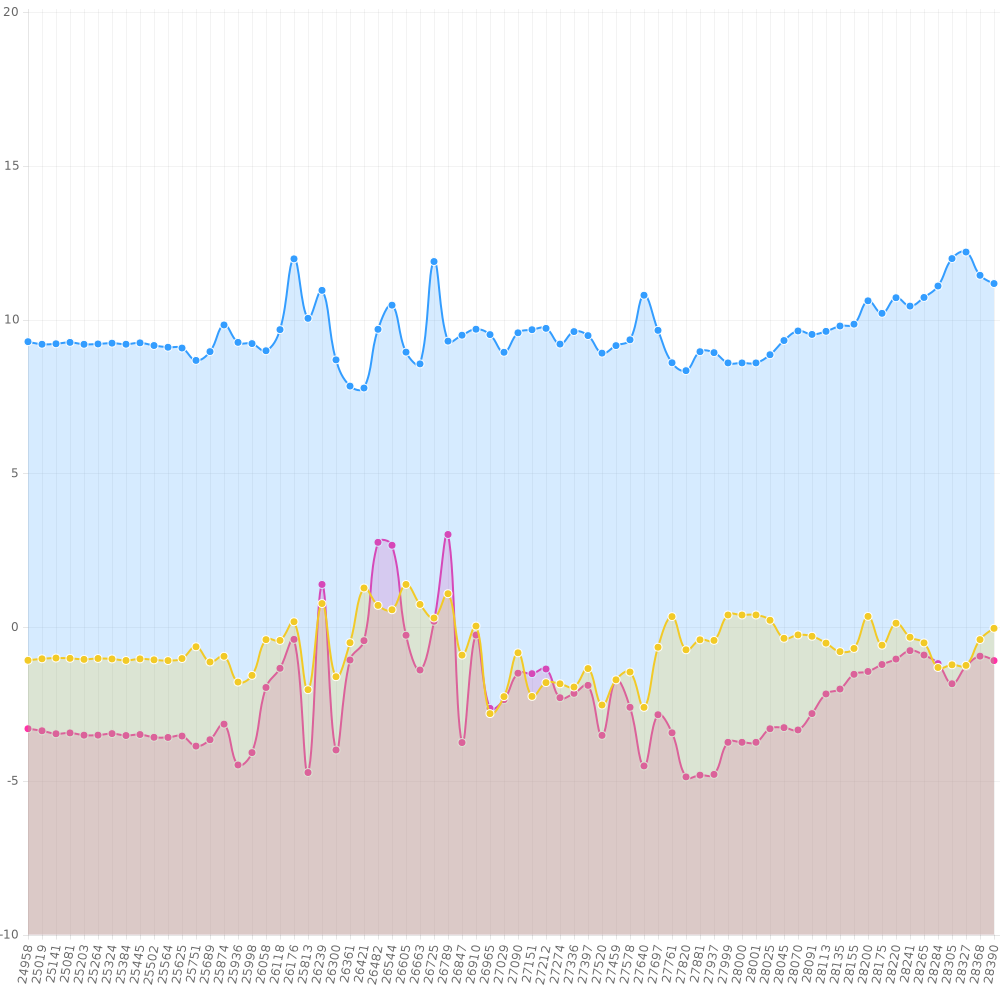
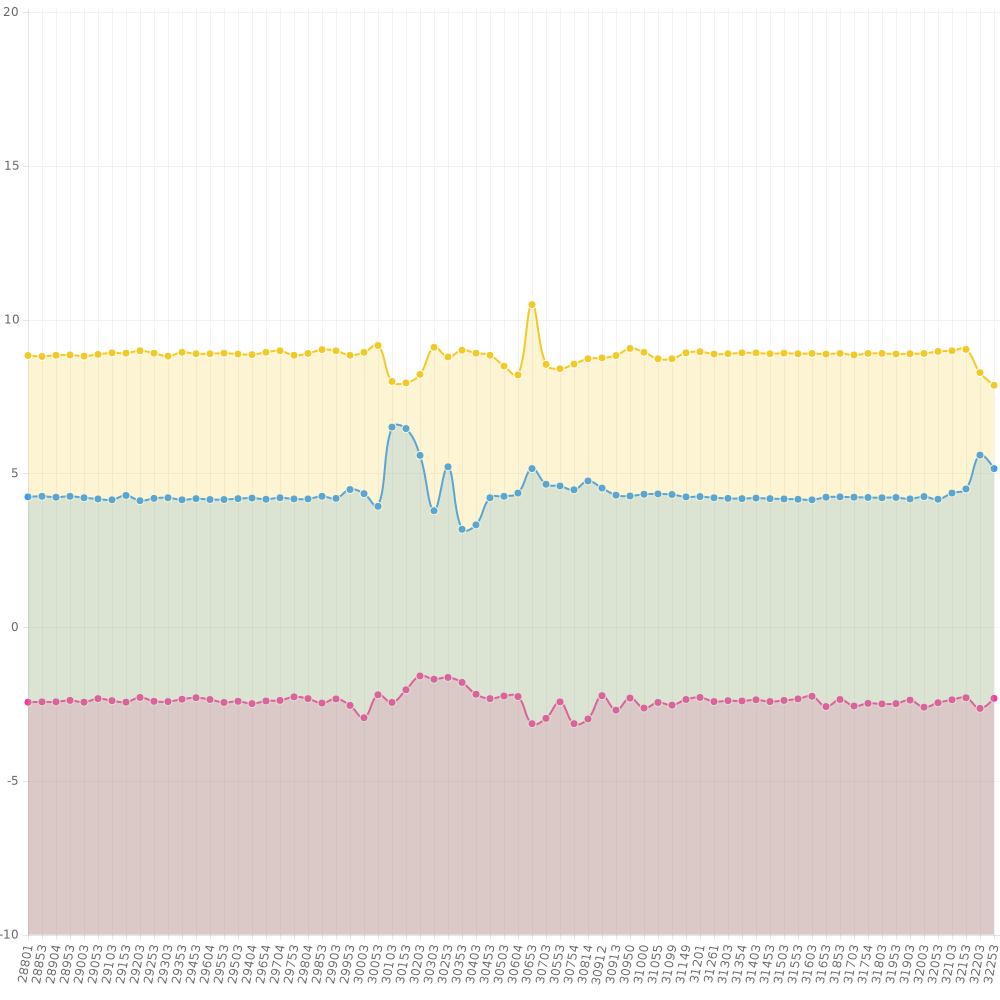
4 graphs différents

diff --git a/node-postgres-promises/graphs.js b/node-postgres-promises/graphs.js
@@ -4,18 +4,26 @@ function graphiques(req, res, next) {
   , ctx1 = canvas1.getContext('2d')
   , canvas2 = new Canvas(1000, 1000)
   , ctx2 = canvas2.getContext('2d')
+  , canvas3 = new Canvas(1000, 1000)
+  , ctx3 = canvas3.getContext('2d')
+  , canvas4 = new Canvas(1000, 1000)
+  , ctx4 = canvas4.getContext('2d')
   , Chart = require('nchart')
   , fs = require('fs')
 
 var datatemps = [], datax = [], datay = [], dataz = [];
 var datatemps2 = [], datax2 = [], datay2 = [], dataz2 = [];
+var datatemps3 = [], datax3 = [], datay3 = [], dataz3 = [];
+var datatemps4 = [], datax4 = [], datay4 = [], dataz4 = [];
 
   db.any({
     name: "graphs",
     text: "select * from donnees where id_deploiement = 2"
   })
     .then(function (data) {
-      for (var i = 0; i < data.length; i++){
+      var max = data.length;
+
+      for (var i = 0; i < max; i++){
         datatemps[i]=data[i].temps
         datax[i]=data[i].x;
         datay[i]=data[i].y;
@@ -27,7 +35,16 @@ var datatemps2 = [], datax2 = [], datay2 = [], dataz2 = [];
         datax2[i]=datax[i]
         datay2[i]=datay[i]
         dataz2[i]=dataz[i]
+        datatemps3[i]=datatemps[i+max-70]
+        datax3[i]=datax[i+max-70]
+        datay3[i]=datay[i+max-70]
+        dataz3[i]=dataz[i+max-70]
+        datatemps4[i]=datatemps[i+(max/2)]
+        datax4[i]=datax[i+(max/2)]
+        datay4[i]=datay[i+(max/2)]
+        dataz4[i]=dataz[i+(max/2)]
       }
+
 
 
 
@@ -112,6 +129,83 @@ var datatemps2 = [], datax2 = [], datay2 = [], dataz2 = [];
       }
 
 
+      var lineChartData3 = {
+      	labels : datatemps3,
+      	datasets : [
+      		{
+      			label: "Accélération X",
+      			fillColor : "rgba(255,51,166,0.2)",
+      			strokeColor : "rgba(255,51,166,1)",
+      			pointColor : "rgba(255,51,166,1)",
+      			pointStrokeColor : "#fff",
+      			pointHighlightFill : "#fff",
+      			pointHighlightStroke : "rgba(255,51,166,1)",
+      			data : datax3
+      		},
+      		{
+      			label: "Accélération Y",
+      			fillColor : "rgba(51,157,255,0.2)",
+      			strokeColor : "rgba(51,157,255,1)",
+      			pointColor : "rgba(51,157,255,1)",
+      			pointStrokeColor : "#fff",
+      			pointHighlightFill : "#fff",
+      			pointHighlightStroke : "rgba(51,157,255,1)",
+      			data : datay3
+      		},
+          {
+      			label: "Accélération Z",
+      			fillColor : "rgba(242,202,39,0.2)",
+      			strokeColor : "rgba(242,202,39,1)",
+      			pointColor : "rgba(242,202,39,1)",
+      			pointStrokeColor : "#fff",
+      			pointHighlightFill : "#fff",
+      			pointHighlightStroke : "rgba(242,202,39,1)",
+      			data : dataz3
+      		}
+      	]
+      }
+
+
+      var lineChartData4 = {
+        labels : datatemps4,
+        datasets : [
+          {
+            label: "Accélération X",
+            fillColor : "rgba(255,51,166,0.2)",
+            strokeColor : "rgba(255,51,166,1)",
+            pointColor : "rgba(255,51,166,1)",
+            pointStrokeColor : "#fff",
+            pointHighlightFill : "#fff",
+            pointHighlightStroke : "rgba(255,51,166,1)",
+            data : datax4
+          },
+          {
+            label: "Accélération Y",
+            fillColor : "rgba(51,157,255,0.2)",
+            strokeColor : "rgba(51,157,255,1)",
+            pointColor : "rgba(51,157,255,1)",
+            pointStrokeColor : "#fff",
+            pointHighlightFill : "#fff",
+            pointHighlightStroke : "rgba(51,157,255,1)",
+            data : datay4
+          },
+          {
+            label: "Accélération Z",
+            fillColor : "rgba(242,202,39,0.2)",
+            strokeColor : "rgba(242,202,39,1)",
+            pointColor : "rgba(242,202,39,1)",
+            pointStrokeColor : "#fff",
+            pointHighlightFill : "#fff",
+            pointHighlightStroke : "rgba(242,202,39,1)",
+            data : dataz4
+          }
+        ]
+      }
+
+
+
+
+
 
 
       ctx1.fillStyle = '#fff';
@@ -121,6 +215,14 @@ var datatemps2 = [], datax2 = [], datay2 = [], dataz2 = [];
       ctx2.fillStyle = '#fff';
       ctx2.fillRect(0, 0, canvas2.width, canvas2.height);
       new Chart(ctx2).Line(lineChartData2);
+
+      ctx3.fillStyle = '#fff';
+      ctx3.fillRect(0, 0, canvas3.width, canvas3.height);
+      new Chart(ctx3).Line(lineChartData3);
+
+      ctx4.fillStyle = '#fff';
+      ctx4.fillRect(0, 0, canvas4.width, canvas4.height);
+      new Chart(ctx4).Line(lineChartData4);
 
 
 
@@ -133,6 +235,16 @@ var datatemps2 = [], datax2 = [], datay2 = [], dataz2 = [];
       canvas2.toBuffer(function (err, buf) {
         if (err) throw err;
         fs.writeFile(__dirname + '/public'+'/images'+'/graph2.png', buf);
+      });
+
+      canvas3.toBuffer(function (err, buf) {
+        if (err) throw err;
+        fs.writeFile(__dirname + '/public'+'/images'+'/graph3.png', buf);
+      });
+
+      canvas4.toBuffer(function (err, buf) {
+        if (err) throw err;
+        fs.writeFile(__dirname + '/public'+'/images'+'/graph4.png', buf);
       });
 
 
